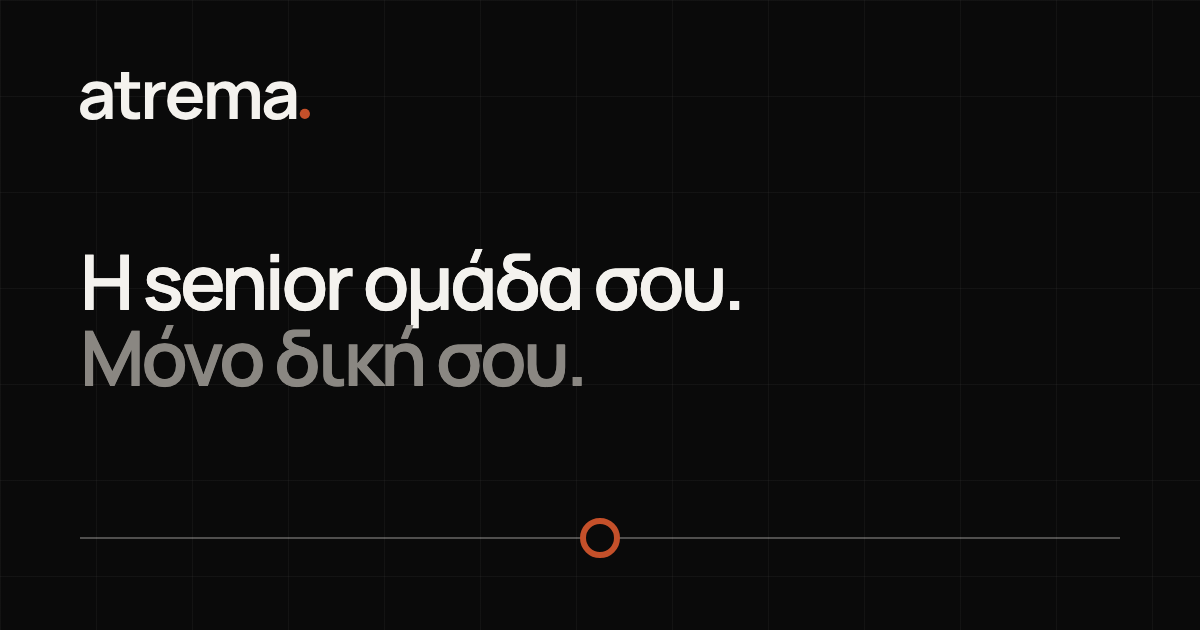
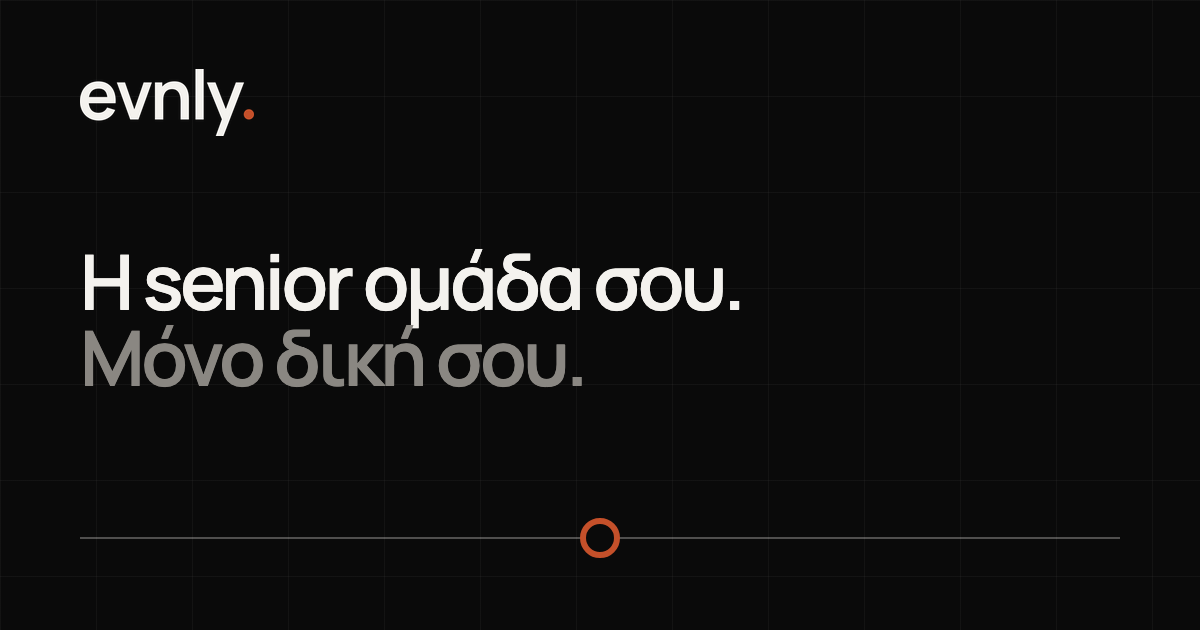
Rebrand atrema to evnly
New wordmark (Manrope Bold, same tracking and clay dot), copy, metadata,
OG image and site URL (evnly.vercel.app until evnly.io is connected).

Changed region(s): [[0.0617, 0.1206, 0.2467, 0.2111]]

diff --git a/src/components/Logo.tsx b/src/components/Logo.tsx
@@ -1,7 +1,7 @@
 export function Logo({ className }: { className?: string }) {
   return (
-    <svg viewBox="0 0 6720 1410" className={className} role="img" aria-label="atrema">
-      <g transform="translate(-80.0,1380.0) scale(1,-1)"><g fill="currentColor"><path transform="translate(0.0,0)" d="M442.3336181640625 -30Q324.666748046875 -30 243.75003051757812 14.416656494140625Q162.83331298828125 58.83331298828125 121.41665649414062 132.91659545898438Q80 206.9998779296875 80 295.999755859375Q80 374.33349609375 106.08370971679688 436.4168395996094Q132.16741943359375 498.50018310546875 186.25106811523438 544.0832824707031Q240.334716796875 589.6663818359375 325.6678466796875 618.9993896484375Q391.335205078125 640.4993286132812 478.4190368652344 657.0826110839844Q565.5028686523438 673.6658935546875 668.1692504882812 688.2491149902344Q770.8356323242188 702.8323364257812 883.333984375 719.6654052734375L796.668701171875 671.332763671875Q797.5021362304688 783.1680297851562 746.7515563964844 836.2523498535156Q696.0009765625 889.336669921875 574.666015625 889.336669921875Q501.997802734375 889.336669921875 434.0807800292969 855.0860290527344Q366.16375732421875 820.8353881835938 338.9969482421875 738.3343505859375L118.666748046875 807.333251953125Q158.83331298828125 944.000244140625 271.5832824707031 1027.0001220703125Q384.333251953125 1110 575.332763671875 1110Q719.4995727539062 1110 828.666015625 1063.1663208007812Q937.8324584960938 1016.3326416015625 991.33203125 908.9993896484375Q1020.3316650390625 852.3331298828125 1026.3316650390625 792.8331909179688Q1032.3316650390625 733.333251953125 1032.3316650390625 662.6669921875V0H821.0015869140625V234.3348388671875L856.001708984375 195.6690673828125Q783.00244140625 79.16815185546875 685.4183654785156 24.584075927734375Q587.8342895507812 -30 442.3336181640625 -30ZM489.9990234375 162.3306884765625Q571.9998779296875 162.3306884765625 629.833984375 191.41433715820312Q687.6680908203125 220.49798583984375 722.3352661132812 262.0822448730469Q757.00244140625 303.66650390625 768.669189453125 341.3349609375Q787.5022583007812 387.335205078125 790.4188537597656 446.7519836425781Q793.33544921875 506.16876220703125 793.33544921875 543.335205078125L867.334716796875 521.0015869140625Q757.66943359375 503.50189208984375 679.5857238769531 490.8353271484375Q601.5020141601562 478.16876220703125 545.8341674804688 466.7520446777344Q490.16632080078125 455.3353271484375 446.9986572265625 441.0018310546875Q405.49847412109375 425.6685791015625 376.4145812988281 405.9184265136719Q347.3306884765625 386.16827392578125 331.8302001953125 360.0010986328125Q316.3297119140625 333.83392333984375 316.3297119140625 298.9996337890625Q316.3297119140625 259.49932861328125 336.0798645019531 228.58212280273438Q355.83001708984375 197.6649169921875 394.4139099121094 179.997802734375Q432.997802734375 162.3306884765625 489.9990234375 162.3306884765625Z"/><path transform="translate(1062.0,0)" d="M772.9981689453125 0Q666.1654663085938 -20.49993896484375 563.4160461425781 -17.66656494140625Q460.6666259765625 -14.83319091796875 379.9170837402344 20.33343505859375Q299.16754150390625 55.50006103515625 257.33447265625 132.66650390625Q220.00146484375 203.16607666015625 217.83477783203125 275.99896240234375Q215.6680908203125 348.83184814453125 215.6680908203125 441.331298828125V1380H456.3309326171875V454.664306640625Q456.3309326171875 390.49749755859375 457.8309326171875 341.2476501464844Q459.3309326171875 291.997802734375 478.3309326171875 260.664306640625Q514.3309326171875 201.16400146484375 593.1642456054688 194.24710083007812Q671.99755859375 187.3302001953125 772.9981689453125 201.6636962890625ZM20 891.0025634765625V1080H772.9981689453125V891.0025634765625Z"/><path transform="translate(1838.0,0)" d="M140 0V1080H352.9967041015625V817.0001220703125L326.9967041015625 851.0001220703125Q347.3299560546875 904.9998779296875 380.82977294921875 949.6663818359375Q414.32958984375 994.3328857421875 460.9957275390625 1023.332763671875Q500.82916259765625 1050.4998168945312 549.2461242675781 1065.5Q597.6630859375 1080.5001831054688 648.663330078125 1084.0001831054688Q699.66357421875 1087.5001831054688 748.3302001953125 1080V855.0035400390625Q699.6630859375 869.1702270507812 637.5794372558594 863.8367919921875Q575.4957885742188 858.5033569335938 524.662109375 829.3359375Q475.16192626953125 802.1686401367188 443.7454528808594 760.2513122558594Q412.3289794921875 718.333984375 397.3292236328125 664.83349609375Q382.3294677734375 611.3330078125 382.3294677734375 548.666259765625V0Z"/><path transform="translate(2546.0,0)" d="M630.665283203125 -30Q466.83221435546875 -30 342.99920654296875 41.083282470703125Q219.16619873046875 112.16656494140625 149.58309936523438 238.08328247070312Q80 364 80 528.3336181640625Q80 705.3336181640625 148.24978637695312 835.8335571289062Q216.49957275390625 966.33349609375 337.4159851074219 1038.166748046875Q458.3323974609375 1110 617.332275390625 1110Q784.8319702148438 1110 902.331787109375 1031.6668701171875Q1019.8316040039062 953.333740234375 1077.0816345214844 810.333984375Q1134.3316650390625 667.334228515625 1120.1653442382812 472.667724609375H881.0023193359375V560.666259765625Q880.002197265625 737.0009765625 819.0011596679688 818.168701171875Q758.0001220703125 899.33642578125 627.33203125 899.33642578125Q479.49761962890625 899.33642578125 407.2467956542969 807.6688842773438Q334.9959716796875 716.0013427734375 334.9959716796875 540Q334.9959716796875 375.6650390625 407.2467956542969 285.66412353515625Q479.49761962890625 195.6632080078125 617.332275390625 195.6632080078125Q706.3333740234375 195.6632080078125 770.6676025390625 235.3304443359375Q835.0018310546875 274.9976806640625 870.00244140625 349.6654052734375L1108.3316650390625 277.99951171875Q1046.4982299804688 131.6663818359375 916.7484436035156 50.83319091796875Q786.9986572265625 -30 630.665283203125 -30ZM258.9969482421875 472.667724609375V654.9986572265625H1002.3336181640625V472.667724609375Z"/><path transform="translate(3660.0,0)" d="M1436.9996337890625 0 1437.3330078125 655.6688232421875Q1437.3330078125 767.3360595703125 1382.0824279785156 829.83642578125Q1326.8318481445312 892.3367919921875 1233.331298828125 892.3367919921875Q1175.1644897460938 892.3367919921875 1129.2473449707031 865.4200744628906Q1083.3302001953125 838.5033569335938 1056.3297729492188 787.4195861816406Q1029.329345703125 736.3358154296875 1029.329345703125 664.66796875L921.996826171875 727.999755859375Q921.1633911132812 840.333251953125 972.6632690429688 925.8333129882812Q1024.1631469726562 1011.3333740234375 1111.9130554199219 1059.0000610351562Q1199.6629638671875 1106.666748046875 1307.6629638671875 1106.666748046875Q1487.3289794921875 1106.666748046875 1582.6624145507812 999.4170227050781Q1677.995849609375 892.1672973632812 1677.995849609375 716.66748046875L1677.6624755859375 0ZM138.3333740234375 0V1080H351.330078125V745.0028076171875H380.662841796875V0ZM788.66650390625 0 788.9998779296875 653.335205078125Q788.9998779296875 765.8358764648438 733.9993286132812 829.0863342285156Q678.998779296875 892.3367919921875 584.3314208984375 892.3367919921875Q492.49725341796875 892.3367919921875 436.5800476074219 829.2528991699219Q380.662841796875 766.1690063476562 380.662841796875 664.66796875L273.330322265625 736.6669921875Q273.330322265625 842.3336181640625 325.3302001953125 925.9169006347656Q377.330078125 1009.5001831054688 465.66326904296875 1058.0834655761719Q553.9964599609375 1106.666748046875 664.3297119140625 1106.666748046875Q785.3289794921875 1106.666748046875 866.5789489746094 1055.2503967285156Q947.8289184570312 1003.8340454101562 988.5791320800781 915.334228515625Q1029.329345703125 826.8344116210938 1029.329345703125 715.6673583984375L1028.9959716796875 0Z"/><path transform="translate(5368.0,0)" d="M442.3336181640625 -30Q324.666748046875 -30 243.75003051757812 14.416656494140625Q162.83331298828125 58.83331298828125 121.41665649414062 132.91659545898438Q80 206.9998779296875 80 295.999755859375Q80 374.33349609375 106.08370971679688 436.4168395996094Q132.16741943359375 498.50018310546875 186.25106811523438 544.0832824707031Q240.334716796875 589.6663818359375 325.6678466796875 618.9993896484375Q391.335205078125 640.4993286132812 478.4190368652344 657.0826110839844Q565.5028686523438 673.6658935546875 668.1692504882812 688.2491149902344Q770.8356323242188 702.8323364257812 883.333984375 719.6654052734375L796.668701171875 671.332763671875Q797.5021362304688 783.1680297851562 746.7515563964844 836.2523498535156Q696.0009765625 889.336669921875 574.666015625 889.336669921875Q501.997802734375 889.336669921875 434.0807800292969 855.0860290527344Q366.16375732421875 820.8353881835938 338.9969482421875 738.3343505859375L118.666748046875 807.333251953125Q158.83331298828125 944.000244140625 271.5832824707031 1027.0001220703125Q384.333251953125 1110 575.332763671875 1110Q719.4995727539062 1110 828.666015625 1063.1663208007812Q937.8324584960938 1016.3326416015625 991.33203125 908.9993896484375Q1020.3316650390625 852.3331298828125 1026.3316650390625 792.8331909179688Q1032.3316650390625 733.333251953125 1032.3316650390625 662.6669921875V0H821.0015869140625V234.3348388671875L856.001708984375 195.6690673828125Q783.00244140625 79.16815185546875 685.4183654785156 24.584075927734375Q587.8342895507812 -30 442.3336181640625 -30ZM489.9990234375 162.3306884765625Q571.9998779296875 162.3306884765625 629.833984375 191.41433715820312Q687.6680908203125 220.49798583984375 722.3352661132812 262.0822448730469Q757.00244140625 303.66650390625 768.669189453125 341.3349609375Q787.5022583007812 387.335205078125 790.4188537597656 446.7519836425781Q793.33544921875 506.16876220703125 793.33544921875 543.335205078125L867.334716796875 521.0015869140625Q757.66943359375 503.50189208984375 679.5857238769531 490.8353271484375Q601.5020141601562 478.16876220703125 545.8341674804688 466.7520446777344Q490.16632080078125 455.3353271484375 446.9986572265625 441.0018310546875Q405.49847412109375 425.6685791015625 376.4145812988281 405.9184265136719Q347.3306884765625 386.16827392578125 331.8302001953125 360.0010986328125Q316.3297119140625 333.83392333984375 316.3297119140625 298.9996337890625Q316.3297119140625 259.49932861328125 336.0798645019531 228.58212280273438Q355.83001708984375 197.6649169921875 394.4139099121094 179.997802734375Q432.997802734375 162.3306884765625 489.9990234375 162.3306884765625Z"/></g><circle cx="6650.3" cy="150.0" r="150.0" fill="var(--clay)"/></g>
+    <svg viewBox="0 0 5081 1950" className={className} role="img" aria-label="evnly">
+      <g transform="translate(-80.0,1470.0) scale(1,-1)"><g fill="currentColor"><path transform="translate(0.0,0)" d="M631 -30Q467 -30 343.0 41.0Q219 112 149.5 238.0Q80 364 80 528Q80 705 148.0 835.5Q216 966 337.0 1038.0Q458 1110 617 1110Q785 1110 902.5 1031.5Q1020 953 1077.0 810.0Q1134 667 1120 473H881V561Q880 737 819.0 818.0Q758 899 627 899Q479 899 407.0 807.5Q335 716 335 540Q335 376 407.0 286.0Q479 196 617 196Q706 196 770.5 235.5Q835 275 870 350L1108 278Q1046 132 916.5 51.0Q787 -30 631 -30ZM259 473V655H1002V473Z"/><path transform="translate(1114.0,0)" d="M432 0 40 1080H281L553 297L824 1080H1066L674 0Z"/><path transform="translate(2130.0,0)" d="M887 0V520Q887 571 880.0 633.0Q873 695 847.5 752.5Q822 810 771.5 847.0Q721 884 635 884Q589 884 544.0 869.0Q499 854 462.5 817.5Q426 781 404.0 717.5Q382 654 382 555L239 616Q239 754 292.5 866.0Q346 978 450.0 1044.5Q554 1111 706 1111Q826 1111 904.0 1071.0Q982 1031 1028.0 969.0Q1074 907 1096.0 837.0Q1118 767 1124.5 704.5Q1131 642 1131 603V0ZM138 0V1080H353V745H382V0Z"/><path transform="translate(3291.0,0)" d="M160 0V1470H401V0Z"/><path transform="translate(3762.0,0)" d="M282 -480 490 91 494 -77 23 1080H274L608 224H544L869 1080H1110L508 -480Z"/></g><circle cx="5011.3" cy="150.0" r="150.0" fill="var(--clay)"/></g>
     </svg>
   );
 }

diff --git a/src/lib/content.ts b/src/lib/content.ts
@@ -1,10 +1,10 @@
 export type Locale = "el" | "en";
 
-export const EMAIL = "hello@atrema.gr";
+export const EMAIL = "hello@evnly.io";
 
 const el = {
   meta: {
-    title: "atrema. Η senior ομάδα σου. Μόνο δική σου.",
+    title: "evnly. Η senior ομάδα σου. Μόνο δική σου.",
     description:
       "Senior μηχανικοί software για εταιρείες που δεν σηκώνουν λάθη. AI, υγεία, χρηματοοικονομικά, blockchain. Από την Πάτρα, για όλο τον κόσμο.",
   },
@@ -12,7 +12,7 @@ const el = {
     links: [
       { href: "#ti-kanoume", label: "Τι κάνουμε" },
       { href: "#pos-douleuoume", label: "Πώς δουλεύουμε" },
-      { href: "#giati", label: "Γιατί atrema" },
+      { href: "#giati", label: "Γιατί evnly" },
     ],
     cta: "Ας μιλήσουμε",
     switchLabel: "EN",
@@ -28,9 +28,9 @@ const el = {
     levelHint: "Κούνησε το ποντίκι. Η φυσαλίδα πάντα επιστρέφει στο κέντρο.",
   },
   meaning: {
-    word: "ατρέμα",
-    kind: "επίρρημα, αρχαία ελληνικά",
-    defs: ["Ακλόνητα.", "Με σταθερό χέρι.", "Χωρίς να τρέμει."],
+    word: "evenly",
+    kind: "επίρρημα, αγγλικά",
+    defs: ["Ομοιόμορφα.", "Σταθερά, χωρίς κλίση.", "Χωρίς σκαμπανεβάσματα."],
     close: "Έτσι γράφουμε κώδικα.",
   },
   fears: {
@@ -82,7 +82,7 @@ const el = {
     { value: 3, label: "χρόνια συνεχόμενης συνεργασίας χωρίς διακοπή" },
   ],
   exclusive: {
-    eyebrow: "Γιατί atrema",
+    eyebrow: "Γιατί evnly",
     text: "Δεν θα βρεις εδώ logos πελατών. Ούτε case studies με ονόματα. Ό,τι βλέπουμε στην εταιρεία σου μένει εκεί. Όταν δουλεύουμε για σένα, δουλεύουμε μόνο για σένα.",
   },
   values: {
@@ -103,7 +103,7 @@ const el = {
     fields: { name: "Όνομα", company: "Εταιρεία", email: "Email", message: "Τι χτίζεις;" },
     send: "Αποστολή",
     orWrite: "Ή γράψε μας απευθείας",
-    subject: "Γνωριμία με την atrema",
+    subject: "Γνωριμία με την evnly",
   },
   footer: {
     tagline: "Senior engineering. Πάτρα, Ελλάδα.",
@@ -116,7 +116,7 @@ export type Dict = typeof el;
 
 const en: Dict = {
   meta: {
-    title: "atrema. Your senior team. Yours alone.",
+    title: "evnly. Your senior team. Yours alone.",
     description:
       "Senior software engineers for companies that can't afford mistakes. AI, health, finance, blockchain. Based in Patras, Greece, working worldwide.",
   },
@@ -124,7 +124,7 @@ const en: Dict = {
     links: [
       { href: "#ti-kanoume", label: "What we do" },
       { href: "#pos-douleuoume", label: "How we work" },
-      { href: "#giati", label: "Why atrema" },
+      { href: "#giati", label: "Why evnly" },
     ],
     cta: "Let's talk",
     switchLabel: "ΕΛ",
@@ -140,9 +140,9 @@ const en: Dict = {
     levelHint: "Move your cursor. The bubble always returns to the centre.",
   },
   meaning: {
-    word: "ατρέμα",
-    kind: "adverb, ancient Greek",
-    defs: ["Unshaken.", "With a steady hand.", "Without trembling."],
+    word: "evenly",
+    kind: "adverb, English",
+    defs: ["Uniformly.", "Steady, without tilt.", "No highs and lows."],
     close: "That's how we write code.",
   },
   fears: {
@@ -194,7 +194,7 @@ const en: Dict = {
     { value: 3, label: "years of uninterrupted collaboration" },
   ],
   exclusive: {
-    eyebrow: "Why atrema",
+    eyebrow: "Why evnly",
     text: "You won't find client logos here. Or case studies with names. What we see inside your company stays there. When we work for you, we work only for you.",
   },
   values: {
@@ -215,7 +215,7 @@ const en: Dict = {
     fields: { name: "Name", company: "Company", email: "Email", message: "What are you building?" },
     send: "Send",
     orWrite: "Or write to us directly",
-    subject: "Intro with atrema",
+    subject: "Intro with evnly",
   },
   footer: {
     tagline: "Senior engineering. Patras, Greece.",

diff --git a/src/components/Site.tsx b/src/components/Site.tsx
@@ -56,8 +56,8 @@ function Nav({ t }: { t: Dict }) {
       }`}
     >
       <div className={`${wrap} flex h-[72px] items-center justify-between`}>
-        <a href="#top" aria-label="atrema" className="text-lime">
-          <Logo className="h-[22px] w-auto" />
+        <a href="#top" aria-label="evnly" className="text-lime">
+          <Logo className="h-[30px] w-auto" />
         </a>
         <nav className="hidden items-center gap-9 text-sm text-stone md:flex">
           {t.nav.links.map((l) => (
@@ -493,7 +493,7 @@ function Footer({ t }: { t: Dict }) {
         </Reveal>
         <div className="mt-14 flex flex-col justify-between gap-4 text-sm text-stone sm:flex-row">
           <span>{t.footer.tagline}</span>
-          <span>© 2026 atrema. {t.footer.rights}</span>
+          <span>© 2026 evnly. {t.footer.rights}</span>
           <a href="#top" className="transition-colors hover:text-lime">{t.footer.top} ↑</a>
         </div>
       </div>

diff --git a/src/app/global-not-found.tsx b/src/app/global-not-found.tsx
@@ -4,7 +4,7 @@ import { manrope } from "@/lib/fonts";
 import Link from "next/link";
 import { Logo } from "@/components/Logo";
 
-export const metadata: Metadata = { title: "404. atrema" };
+export const metadata: Metadata = { title: "404. evnly" };
 
 export default function GlobalNotFound() {
   return (
@@ -12,7 +12,7 @@ export default function GlobalNotFound() {
       <body className="grain flex min-h-screen flex-col items-center justify-center gap-8 px-6 text-center">
         <Logo className="h-10 w-auto text-lime" />
         <p className="text-stone">Αυτή η σελίδα δεν υπάρχει. This page doesn&apos;t exist.</p>
-        <Link href="/" className="rounded-full bg-clay px-6 py-3 text-sm font-medium text-white">atrema.</Link>
+        <Link href="/" className="rounded-full bg-clay px-6 py-3 text-sm font-medium text-white">evnly.</Link>
       </body>
     </html>
   );

diff --git a/src/lib/metadata.ts b/src/lib/metadata.ts
@@ -1,7 +1,7 @@
 import type { Metadata, Viewport } from "next";
 import { dict, type Locale } from "./content";
 
-export const SITE_URL = "https://atrema.vercel.app";
+export const SITE_URL = "https://evnly.vercel.app";
 
 export function buildMetadata(locale: Locale): Metadata {
   const t = dict[locale].meta;
@@ -22,10 +22,10 @@ export function buildMetadata(locale: Locale): Metadata {
       title: t.title,
       description: t.description,
       url: locale === "el" ? "/" : "/en",
-      siteName: "atrema",
+      siteName: "evnly",
       locale: locale === "el" ? "el_GR" : "en_US",
       type: "website",
-      images: [{ url: "/og.png", width: 1200, height: 630, alt: "atrema" }],
+      images: [{ url: "/og.png", width: 1200, height: 630, alt: "evnly" }],
     },
     twitter: { card: "summary_large_image", title: t.title, description: t.description, images: ["/og.png"] },
   };

diff --git a/README.md b/README.md
@@ -1,6 +1,6 @@
-# atrema.
+# evnly.
 
-Website for atrema, senior engineering from Patras, Greece.
+Website for evnly, senior engineering from Patras, Greece.
 
 - Next.js 16 (App Router), Tailwind CSS 4, Motion
 - Greek at `/`, English at `/en`
